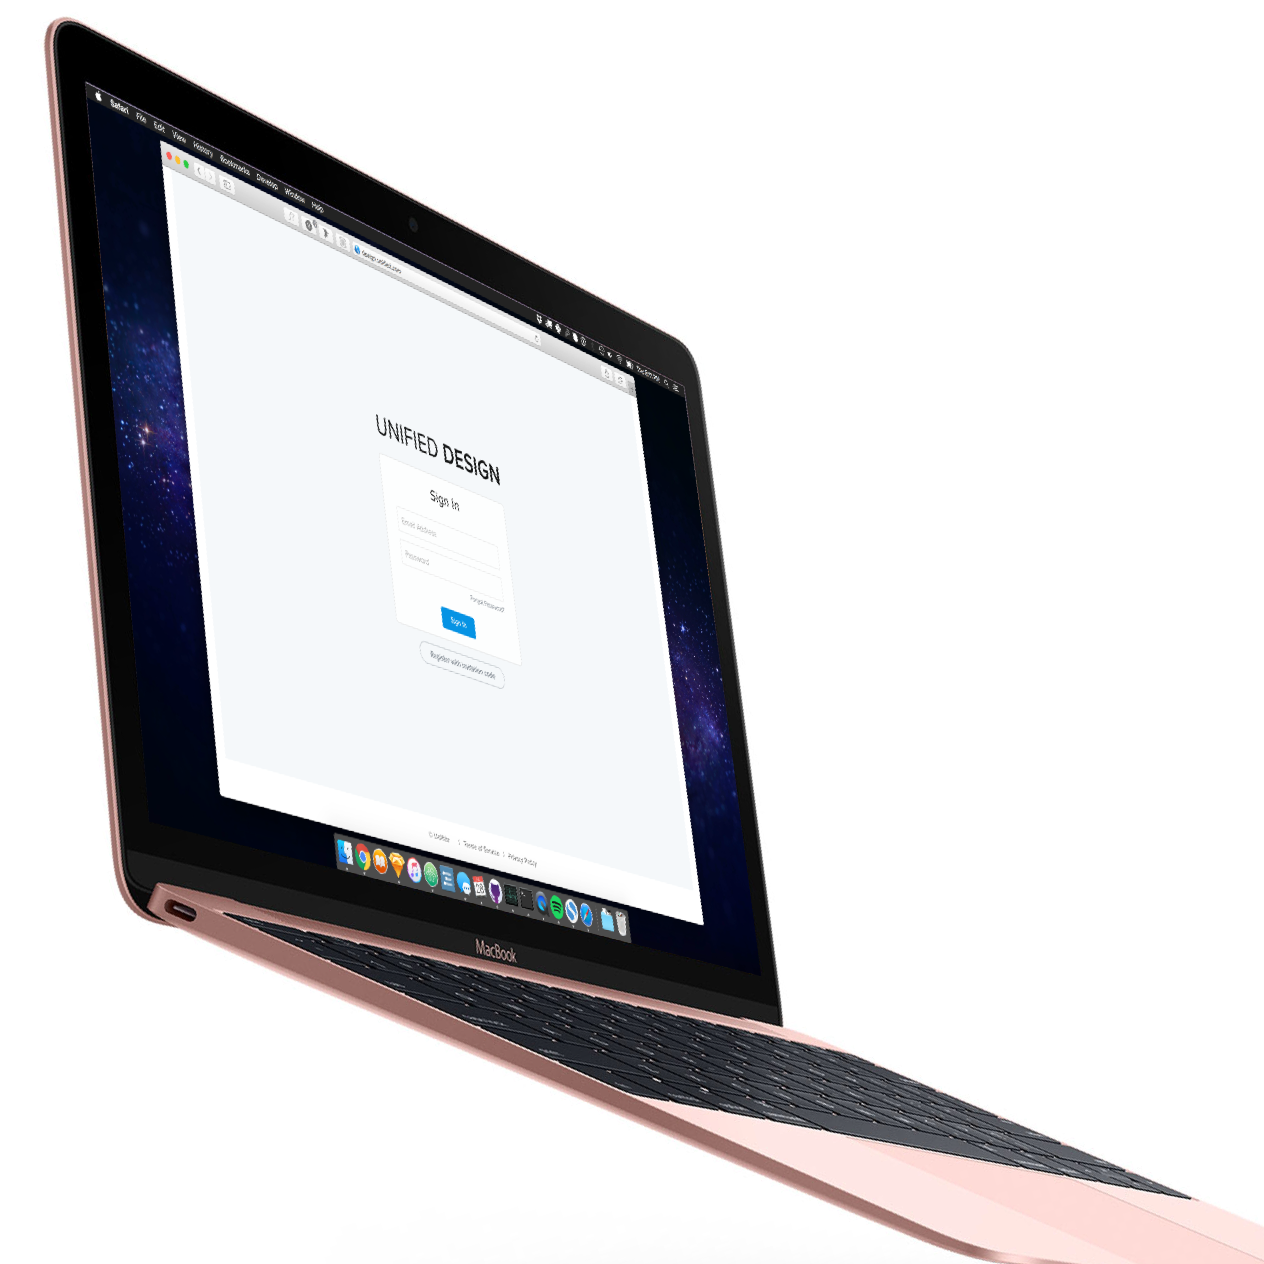
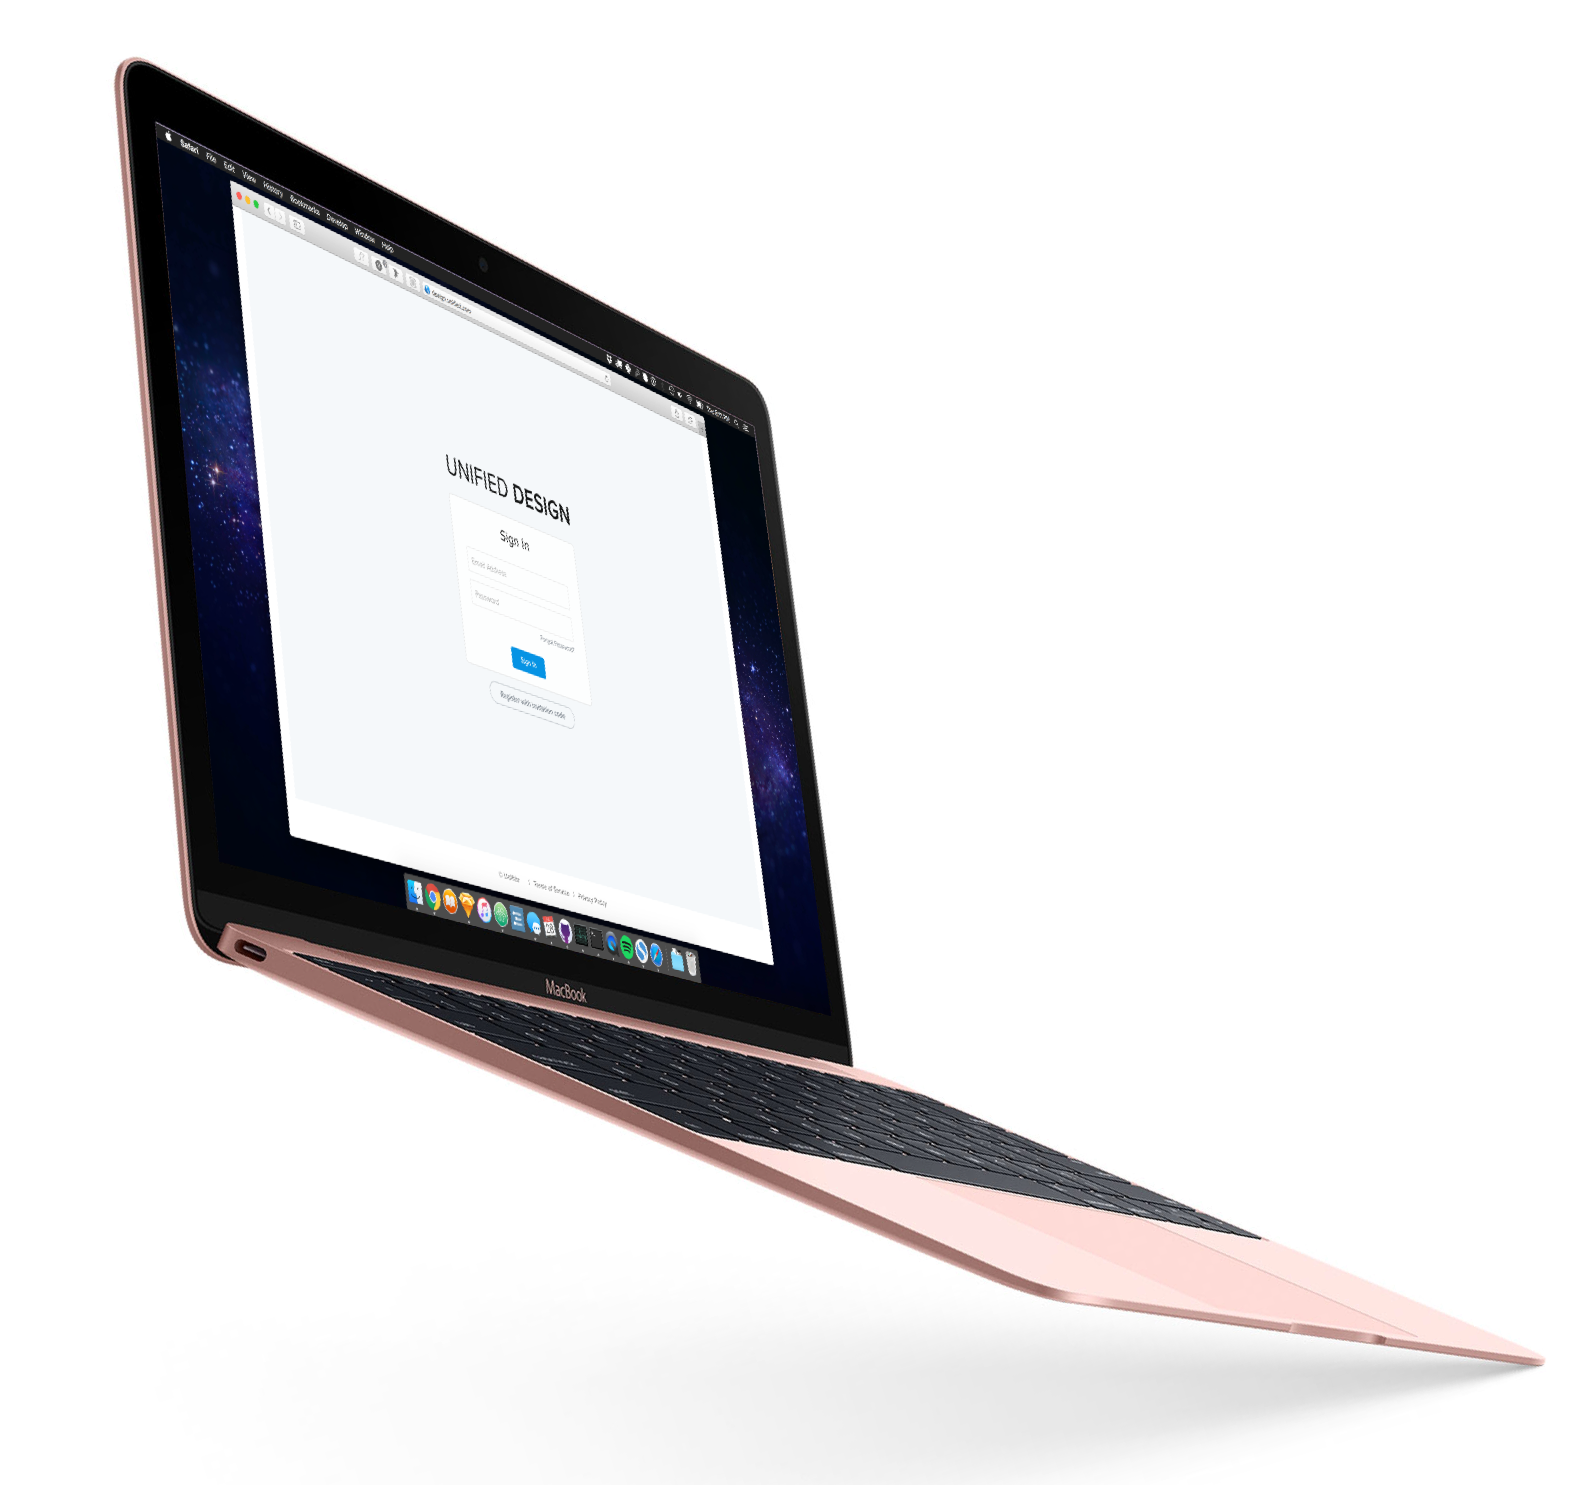
header font

Changed region(s): [[0.0309, 0.0, 1.0, 1.0], [0.2777, 0.3085, 0.4011, 0.4011], [0.3085, 0.432, 0.3703, 0.5245]]

diff --git a/_sass/_layout.scss b/_sass/_layout.scss
@@ -20,7 +20,6 @@ a:focus {
 h1.tagline {
   font-weight: 700;
   font-size: 60px;
-  font-family: 'lora', serif;
   line-height: 1.2;
   margin-bottom: 60px;
   @include media-query($on-palm) {
@@ -226,6 +225,9 @@ h1.about {
     float: left;
     width: 140px;
     text-align: center;
+    overflow: hidden;
+    white-space: nowrap;
+    text-overflow: ellipsis;
     margin: 1em 0;
     border: 2px solid $grey-color-ultralight;
     border-radius: 5px;
